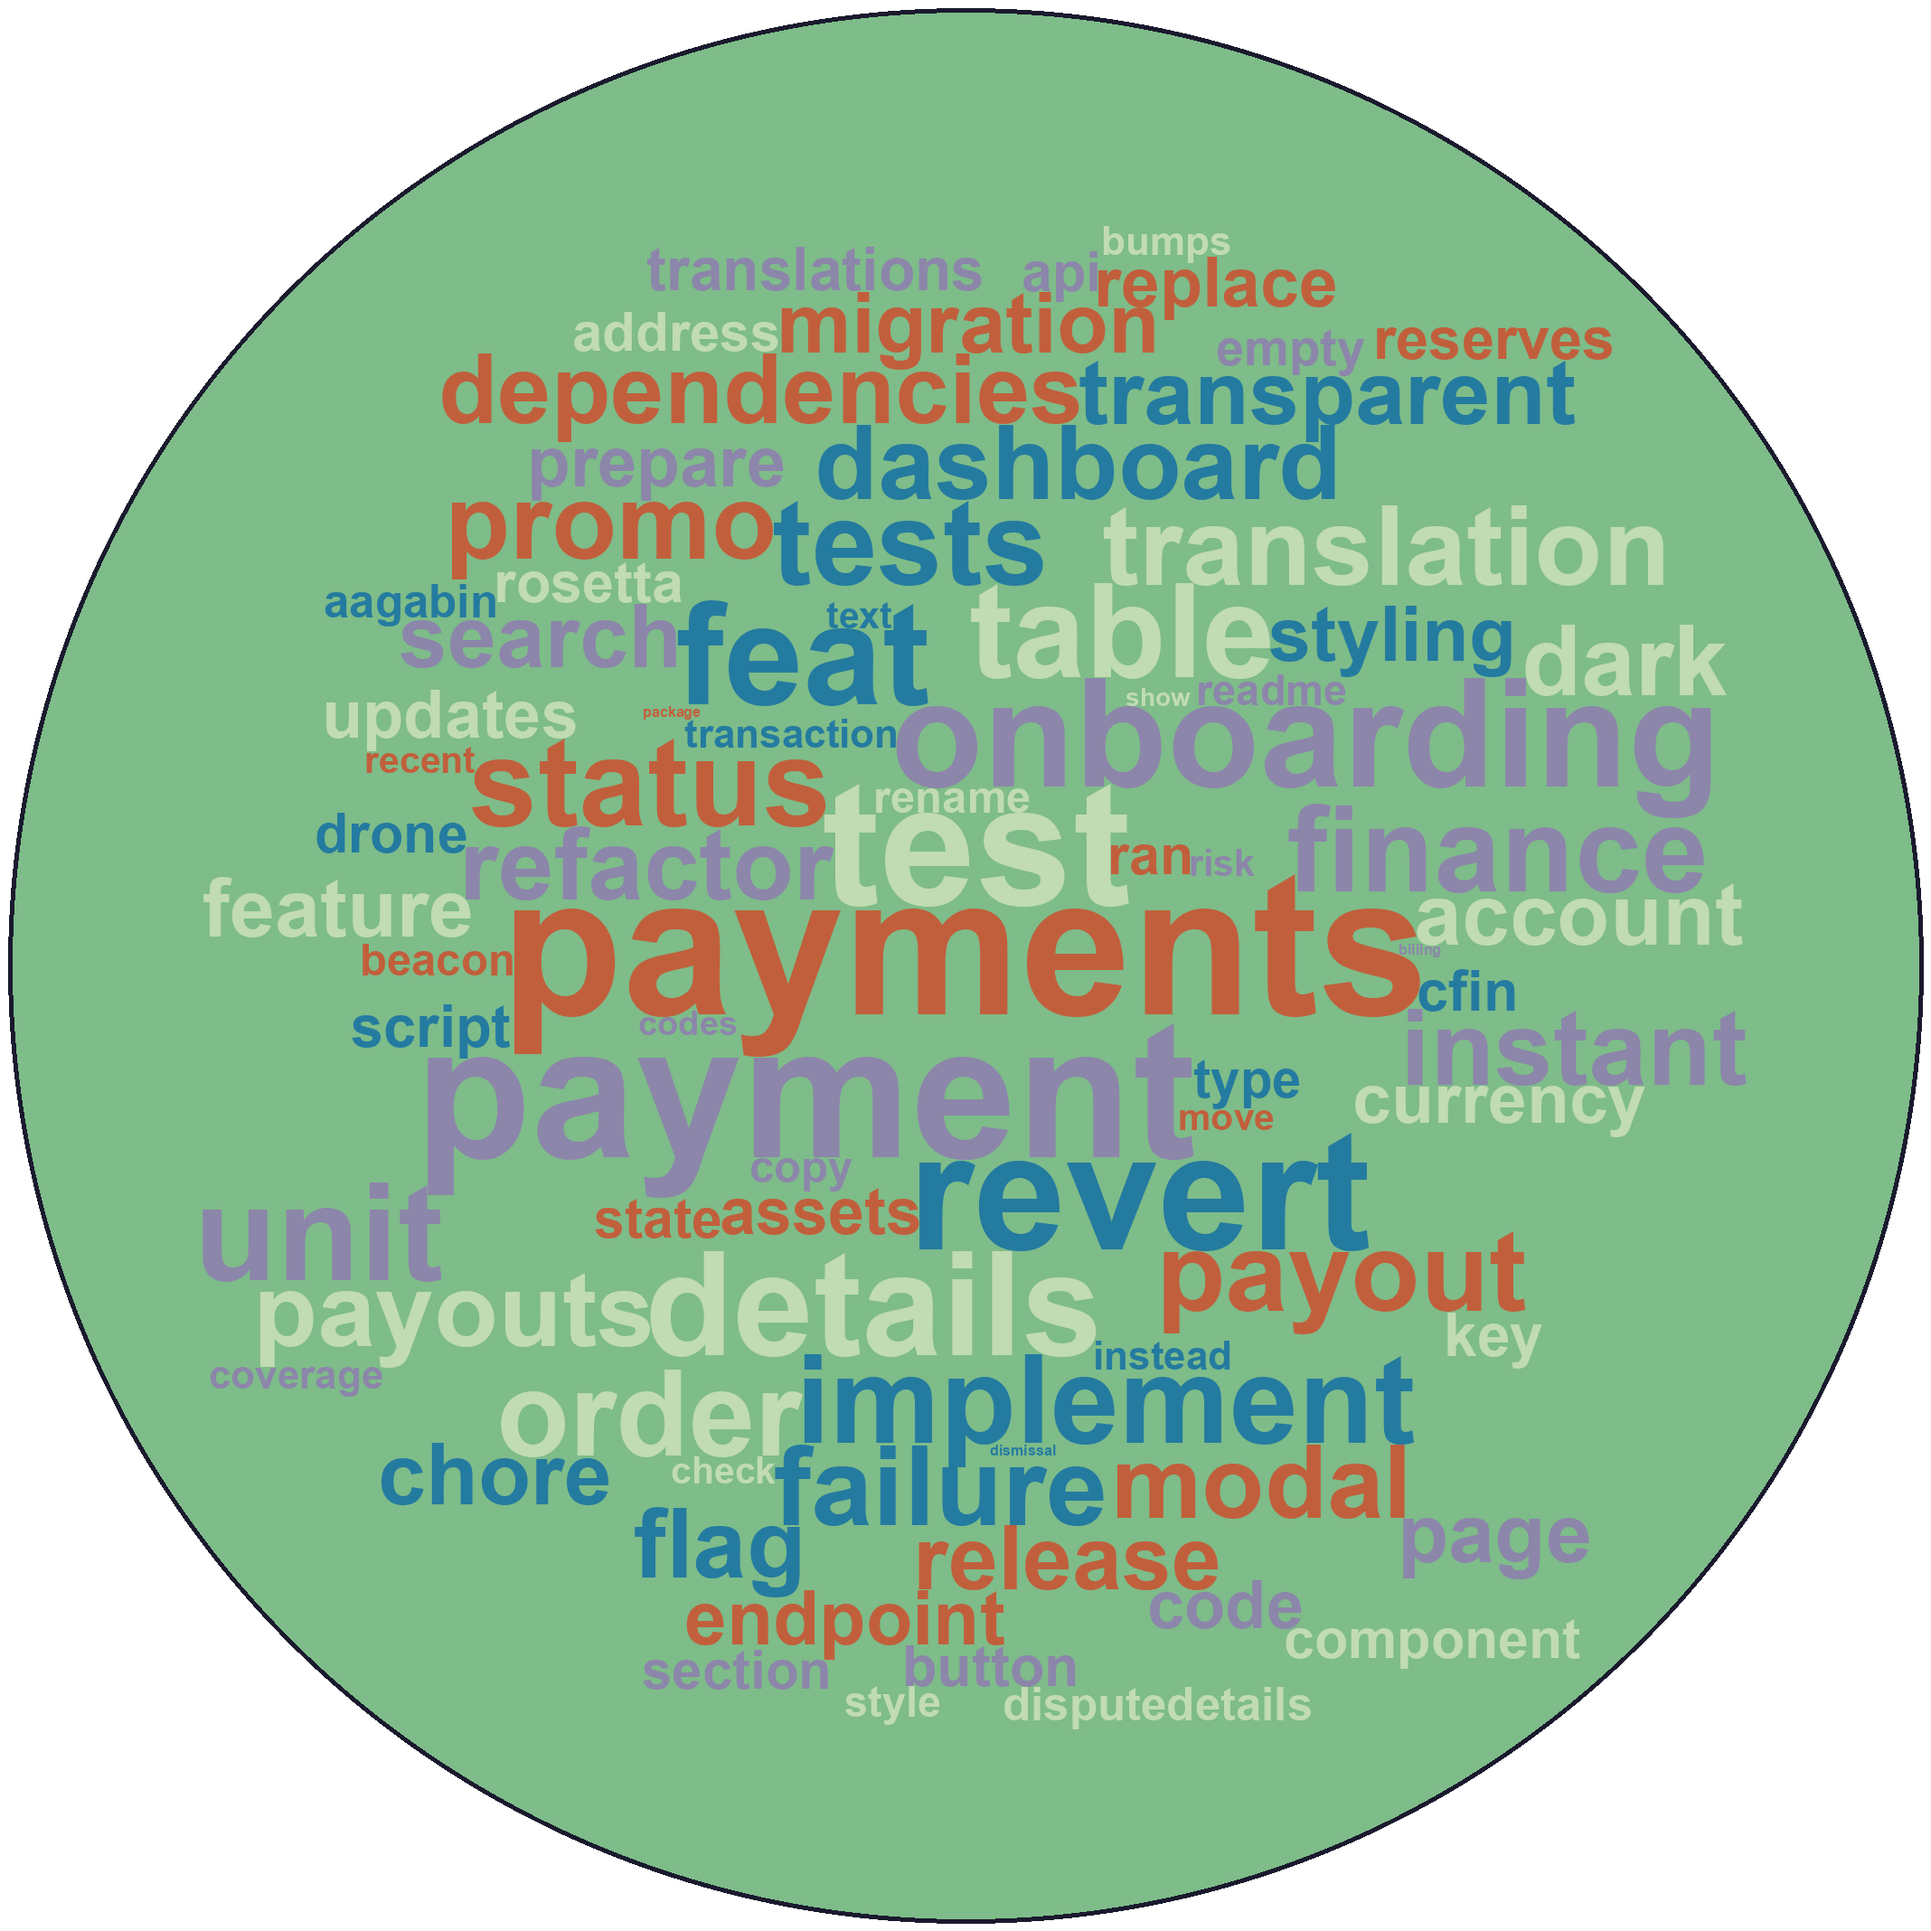
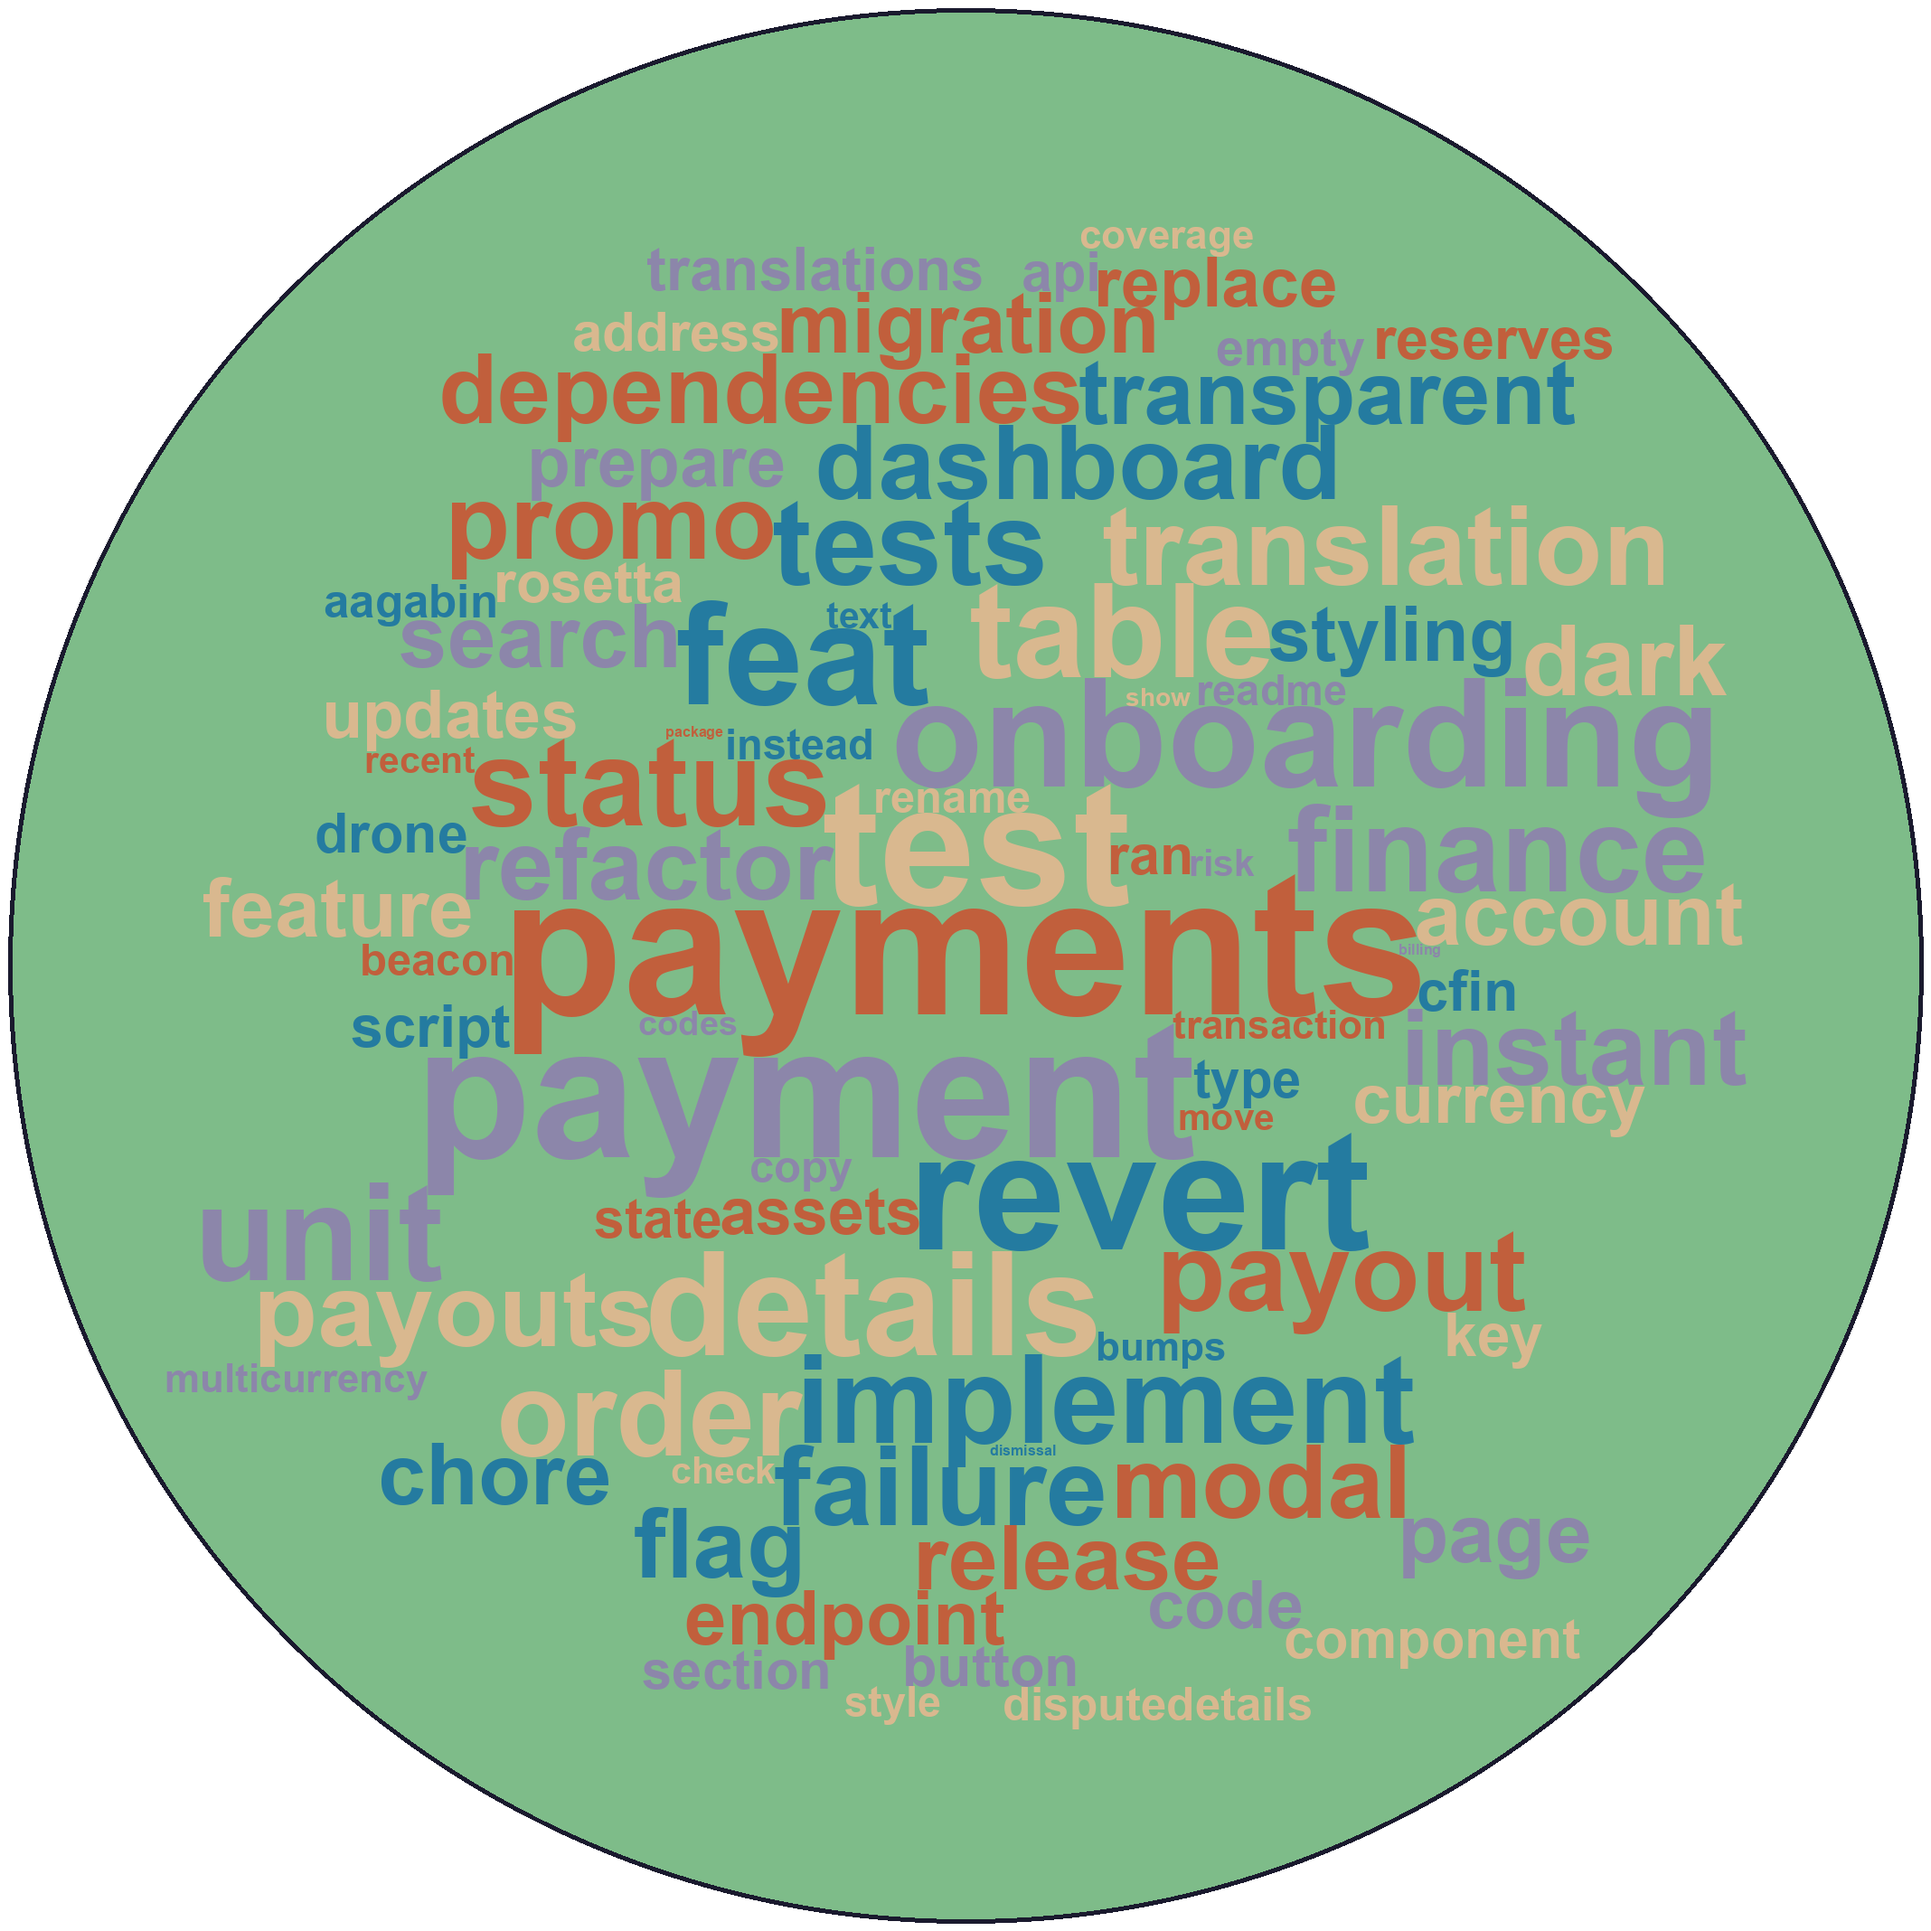
Swap sage-green text color for brown-cream, better readability
C1DBB3 (pale sage) was too close to the green background to read
clearly; D9B88F (brown-cream) pops instead.

diff --git a/.github/scripts/generate_wordcloud.py b/.github/scripts/generate_wordcloud.py
@@ -48,7 +48,7 @@ STOPWORDS = {
     "would", "will", "pr", "merge", "pull", "request", "branch", "master", "main",
 }
 
-PALETTE = ["#C15F3C", "#8C86AA", "#C1DBB3", "#7EBC89", "#247BA0"]
+PALETTE = ["#C15F3C", "#8C86AA", "#D9B88F", "#7EBC89", "#247BA0"]  # C1DBB3 (sage) swapped for a brown-cream -- too low-contrast against the green background
 GOLDEN_ANGLE = math.pi * (3 - math.sqrt(5))  # ~137.5 degrees
 
 CANVAS = 1800
